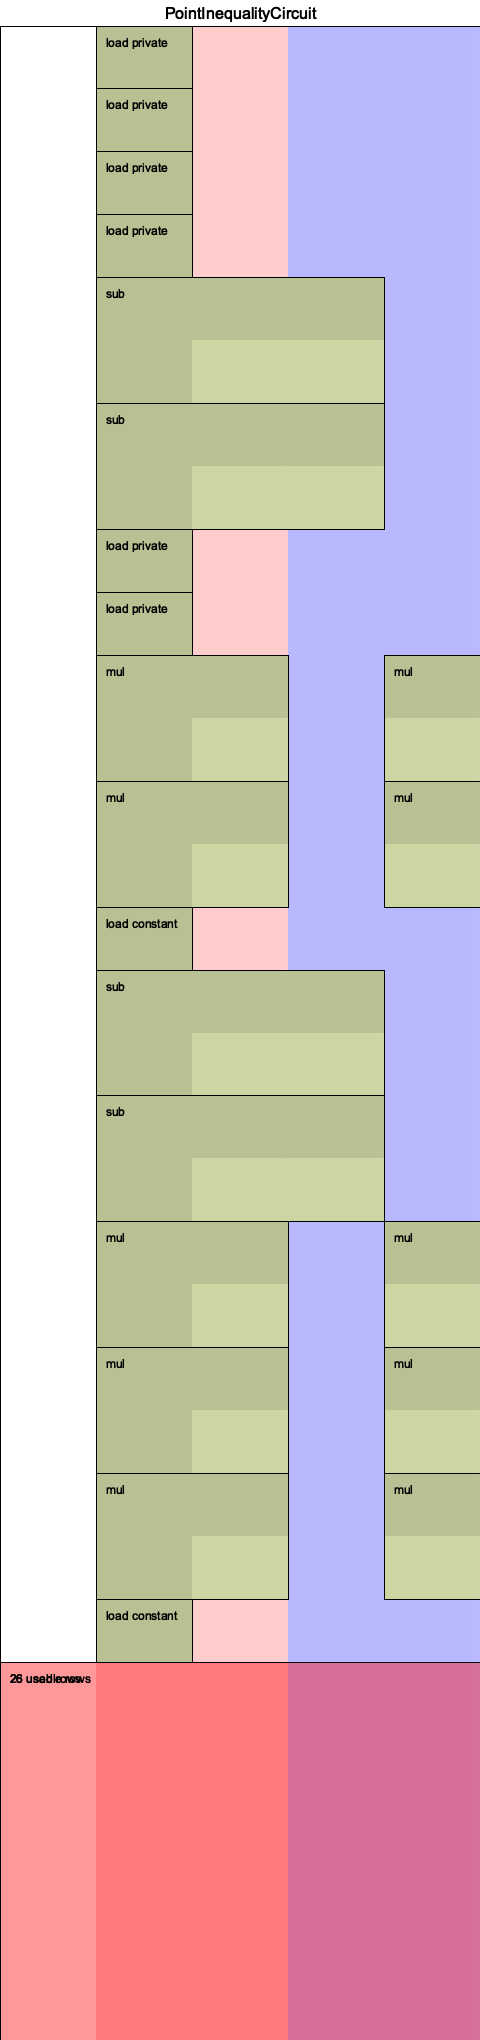
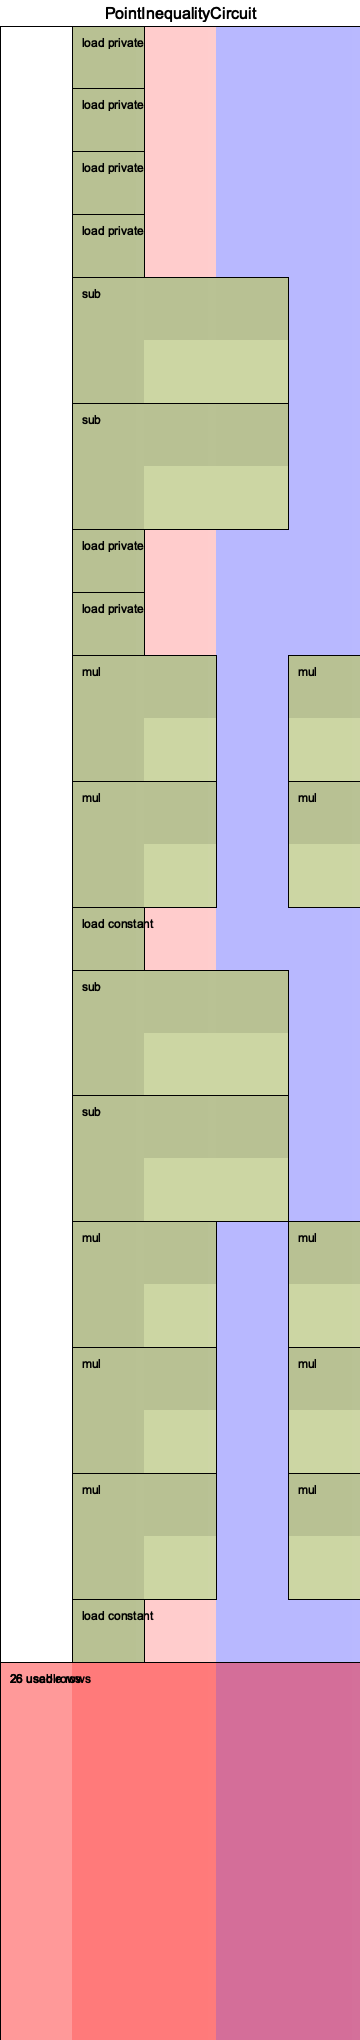
further optimise cols

diff --git a/halo2_proofs/examples/point-inequality.rs b/halo2_proofs/examples/point-inequality.rs
@@ -531,7 +531,7 @@ fn main() {
     println!("SUCCESS: Circuit correctly rejected equal points!");
 
     let cell_size = 60; // pixels per cell
-    let num_cols = 6;
+    let num_cols = 4;
     let num_rows = 1 << k; // 1 << 5 = 32
     let padding = 120; // title + margins
     let canvas_w = (num_cols * cell_size) as u32 + padding;
